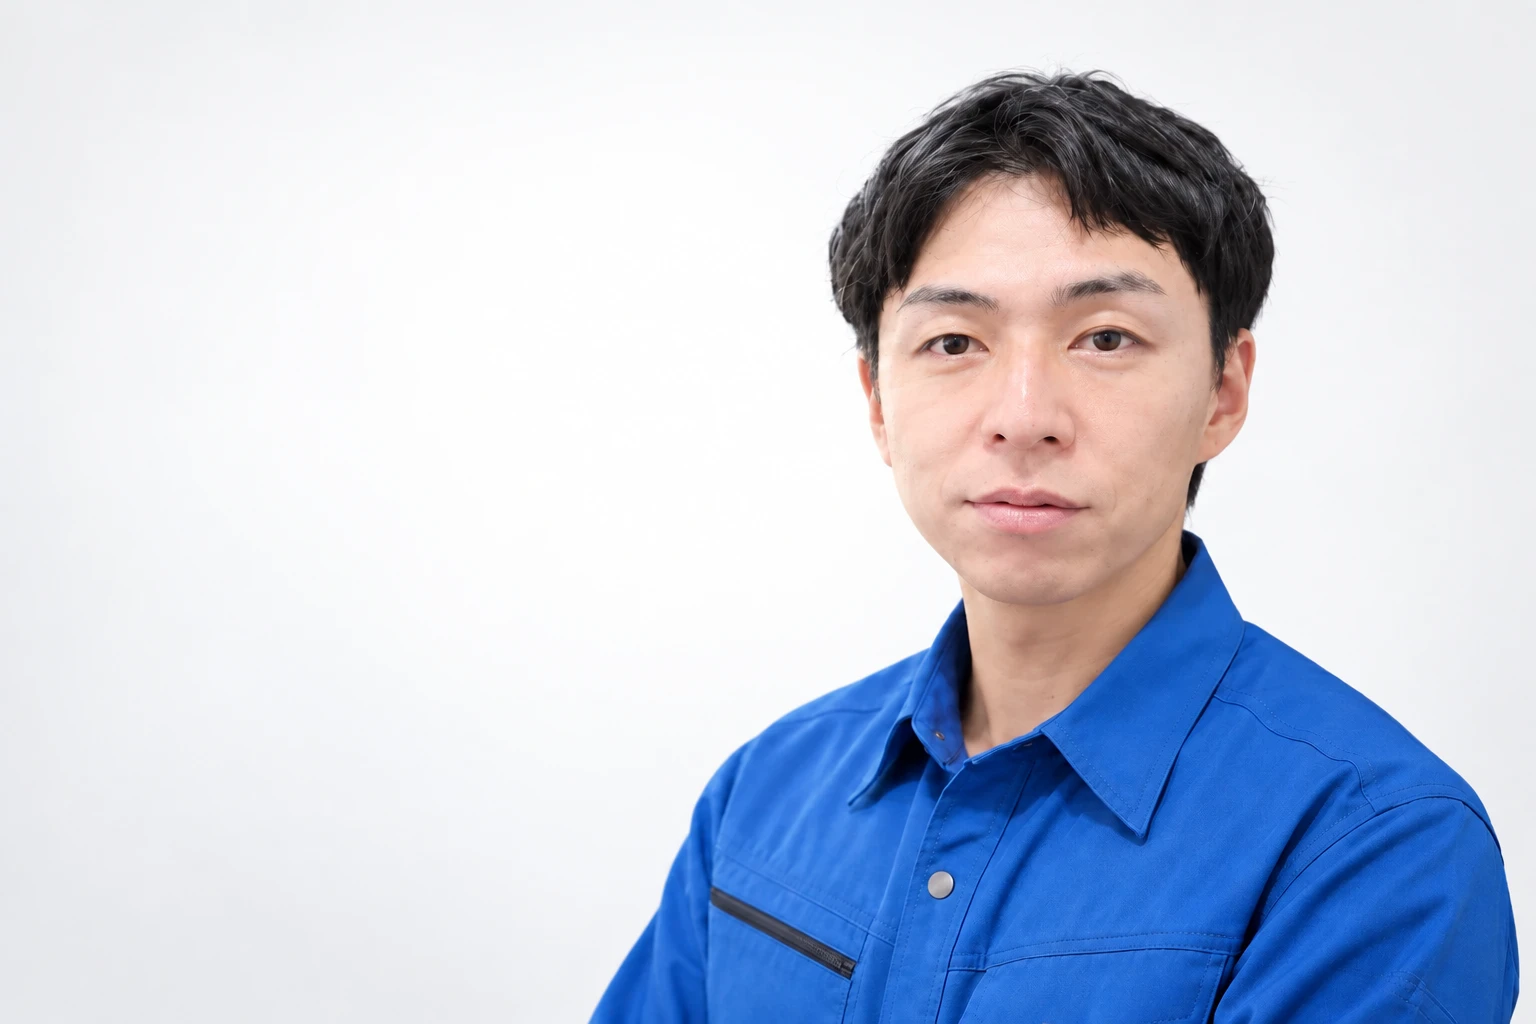
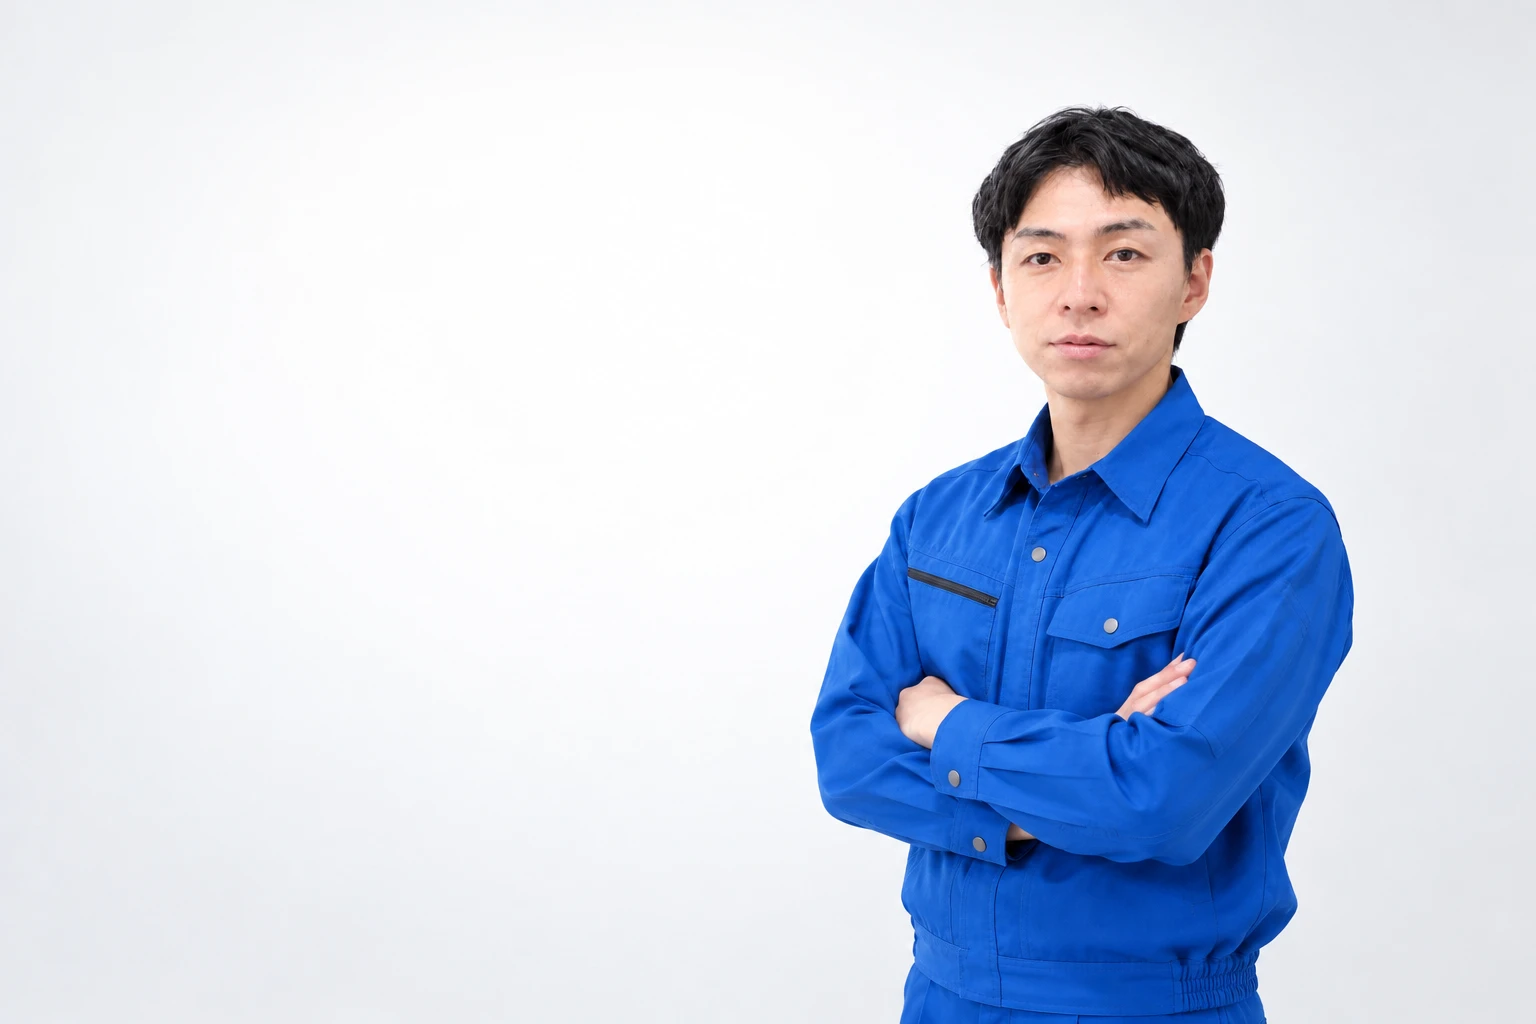
代表メッセージ：写真を引きの構図（腰から上・腕組み）に作り直し
Claude-Session: https://claude.ai/code/session_014fChS7HF4veyPjQkfkMkVj

Changed region(s): [[0.375, 0.0625, 1.0, 1.0]]

diff --git a/css/message.css b/css/message.css
@@ -11,7 +11,7 @@
 /* 最初の画面：白いスタジオ背景の代表写真を画面いっぱいに置き、左の白い余白に見出し（IR資料のトップメッセージの組み方） */
 .msg-hero { position: relative; min-height: clamp(560px, 46vw, 760px); display: flex; align-items: center; background: #f4f5f7; overflow: hidden; }
 .msg-hero__ph { position: absolute; inset: 0; margin: 0; }
-.msg-hero__ph img { width: 100%; height: 100%; object-fit: cover; object-position: 70% 22%; }
+.msg-hero__ph img { width: 100%; height: 100%; object-fit: cover; object-position: 70% 40%; }
 .msg-hero__ph::after { content: ""; position: absolute; inset: 0; background: linear-gradient(90deg, rgba(255, 255, 255, .85) 0%, rgba(255, 255, 255, .6) 34%, rgba(255, 255, 255, 0) 58%); }
 .msg-hero__in { position: relative; width: 100%; max-width: 1240px; margin: 0 auto; padding: clamp(56px, 7vw, 96px) var(--gutter); }
 .msg-hero__text { max-width: 600px; }
@@ -125,7 +125,7 @@
 @media (max-width: 960px) {
   .msg-hero { display: block; min-height: 0; background: #fff; }
   .msg-hero__ph { position: relative; inset: auto; aspect-ratio: 4 / 3; }
-  .msg-hero__ph img { object-position: 68% 20%; }
+  .msg-hero__ph img { object-position: 74% 30%; }
   .msg-hero__ph::after { background: linear-gradient(180deg, rgba(255, 255, 255, 0) 70%, #fff 100%); }
   .msg-hero__in { padding-top: 6px; }
   .msg-kpi { grid-template-columns: repeat(2, minmax(0, 1fr)); }

diff --git a/message.html b/message.html
@@ -24,7 +24,7 @@
 <link href="https://fonts.googleapis.com/css2?family=Zen+Kaku+Gothic+New:wght@400;500;700;900&family=Noto+Sans+JP:wght@400;500;700;900&family=Space+Mono:wght@400;700&family=Shippori+Mincho+B1:wght@600;800&family=Barlow+Semi+Condensed:wght@600;700&display=swap" rel="stylesheet">
 <link rel="stylesheet" href="css/sub.css?v=20261013a">
 <link rel="stylesheet" href="css/strengths.css?v=20261013a">
-<link rel="stylesheet" href="css/message.css?v=20261013e">
+<link rel="stylesheet" href="css/message.css?v=20261013f">
 <script src="js/sub.js?v=20261012f" defer></script>
 <script type="application/ld+json">
 {
